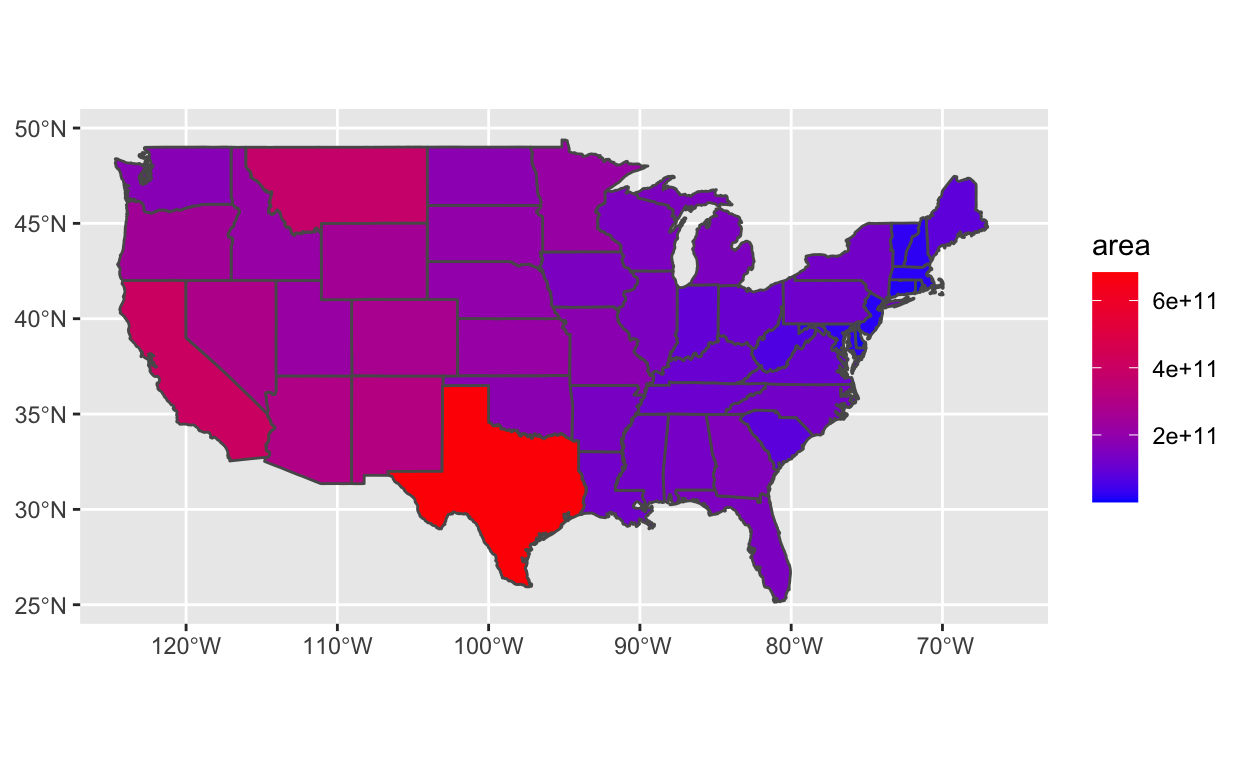
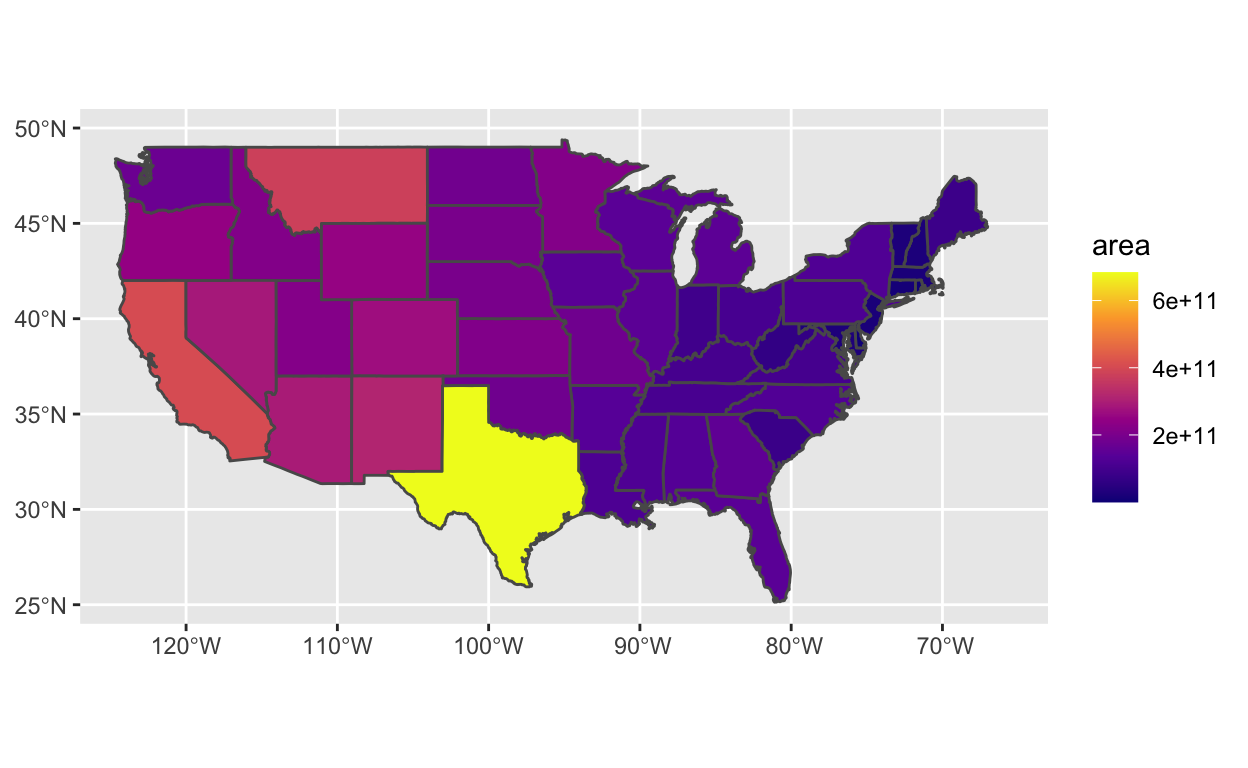
no updates

Changed region(s): [[0.0938, 0.1875, 0.8125, 0.7812], [0.875, 0.3438, 0.9375, 0.6562]]

diff --git a/_site/Assignment3.html b/_site/Assignment3.html
@@ -2592,8 +2592,8 @@ Assignments
 <div class="layout-chunk" data-layout="l-body">
 <div class="sourceCode">
 <pre class="sourceCode r"><code class="sourceCode r"><span class='va'>late_flights_over20</span> <span class='op'>&lt;-</span> <span class='fu'>tbl</span><span class='op'>(</span><span class='va'>con_air</span>, <span class='st'>"flights"</span><span class='op'>)</span> <span class='op'>%&gt;%</span> 
-  <span class='fu'>group_by</span><span class='op'>(</span><span class='va'>origin</span>, <span class='va'>month</span><span class='op'>)</span> <span class='op'>%&gt;%</span> 
   <span class='fu'><a href='https://rdrr.io/r/stats/filter.html'>filter</a></span><span class='op'>(</span><span class='va'>year</span> <span class='op'>==</span> <span class='fl'>2017</span><span class='op'>)</span> <span class='op'>%&gt;%</span>
+  <span class='fu'>group_by</span><span class='op'>(</span><span class='va'>origin</span>, <span class='va'>month</span><span class='op'>)</span> <span class='op'>%&gt;%</span> 
   <span class='fu'>summarize</span><span class='op'>(</span>tot_depart <span class='op'>=</span> <span class='fu'>n</span><span class='op'>(</span><span class='op'>)</span>,
             avg_dist <span class='op'>=</span> <span class='fu'><a href='https://rdrr.io/r/base/mean.html'>mean</a></span><span class='op'>(</span><span class='va'>distance</span><span class='op'>)</span>,
             prop_late_over20 <span class='op'>=</span> <span class='fu'><a href='https://rdrr.io/r/base/mean.html'>mean</a></span><span class='op'>(</span><span class='va'>arr_delay</span> <span class='op'>&gt;</span> <span class='fl'>20</span><span class='op'>)</span><span class='op'>)</span> <span class='op'>%&gt;%</span> 
@@ -2601,26 +2601,25 @@ Assignments
              by <span class='op'>=</span> <span class='fu'><a href='https://rdrr.io/r/base/c.html'>c</a></span><span class='op'>(</span><span class='st'>"origin"</span> <span class='op'>=</span> <span class='st'>"faa"</span><span class='op'>)</span><span class='op'>)</span> <span class='op'>%&gt;%</span> 
   <span class='fu'>select</span><span class='op'>(</span><span class='va'>name</span>, <span class='va'>month</span>, <span class='va'>tot_depart</span>, <span class='va'>avg_dist</span>, <span class='va'>prop_late_over20</span><span class='op'>)</span>
 
-<span class='va'>late_flights_over20</span>
+<span class='va'>late_flights_over20_df</span> <span class='op'>&lt;-</span> <span class='fu'>collect</span><span class='op'>(</span><span class='va'>late_flights_over20</span><span class='op'>)</span>
+<span class='va'>late_flights_over20_df</span>
 </code></pre>
 </div>
-<pre><code># Source:   lazy query [?? x 6]
-# Database: mysql 5.7.31-log
-#   [@mdsr.cdc7tgkkqd0n.us-east-1.rds.amazonaws.com:/airlines]
-# Groups:   origin
+<pre><code># A tibble: 3,466 x 6
+# Groups:   origin [312]
    origin name              month tot_depart avg_dist prop_late_over20
    &lt;chr&gt;  &lt;chr&gt;             &lt;int&gt;      &lt;dbl&gt;    &lt;dbl&gt;            &lt;dbl&gt;
- 1 ABE    Lehigh Valley In…     8        180     562.           0.1   
- 2 ABE    Lehigh Valley In…     9        206     606.           0.0777
- 3 ABE    Lehigh Valley In…    10        253     593.           0.134 
- 4 ABE    Lehigh Valley In…    11        220     585.           0.0909
- 5 ABE    Lehigh Valley In…     1        191     580.           0.147 
- 6 ABE    Lehigh Valley In…    12        168     590.           0.208 
- 7 ABE    Lehigh Valley In…     2        128     601.           0.0703
- 8 ABE    Lehigh Valley In…     3        167     561.           0.162 
- 9 ABE    Lehigh Valley In…     4        139     586.           0.137 
-10 ABE    Lehigh Valley In…     5        160     574.           0.112 
-# … with more rows</code></pre>
+ 1 ABE    Lehigh Valley In…     3        167     561.           0.162 
+ 2 ABE    Lehigh Valley In…     4        139     586.           0.137 
+ 3 ABE    Lehigh Valley In…     5        160     574.           0.112 
+ 4 ABE    Lehigh Valley In…     6        134     572.           0.112 
+ 5 ABE    Lehigh Valley In…     7        192     574.           0.135 
+ 6 ABE    Lehigh Valley In…     8        180     562.           0.1   
+ 7 ABE    Lehigh Valley In…     9        206     606.           0.0777
+ 8 ABE    Lehigh Valley In…    10        253     593.           0.134 
+ 9 ABE    Lehigh Valley In…    11        220     585.           0.0909
+10 ABE    Lehigh Valley In…     1        191     580.           0.147 
+# … with 3,456 more rows</code></pre>
 </div>
 <div class="layout-chunk" data-layout="l-body">
 <div class="sourceCode" id="cb11"><pre class="sourceCode sql"><code class="sourceCode sql"><span id="cb11-1"><a href="#cb11-1"></a><span class="kw">SELECT</span></span>
@@ -2642,18 +2641,18 @@ Assignments
 </ul>
 <div class="layout-chunk" data-layout="l-body">
 <div class="sourceCode">
-<pre class="sourceCode r"><code class="sourceCode r"><span class='va'>late_flights_over20</span> <span class='op'>%&gt;%</span> 
-  <span class='fu'>ggplot</span><span class='op'>(</span><span class='fu'>aes</span><span class='op'>(</span>x <span class='op'>=</span> <span class='fu'><a href='https://rdrr.io/r/base/mean.html'>mean</a></span><span class='op'>(</span><span class='va'>prop_late_over20</span><span class='op'>)</span>,
-             y <span class='op'>=</span> <span class='fu'>fct_reorder</span><span class='op'>(</span><span class='va'>name</span>, <span class='va'>prop_late_over20</span>, <span class='va'>median</span><span class='op'>)</span><span class='op'>)</span><span class='op'>)</span> <span class='op'>+</span>
-  <span class='fu'>geom_col</span><span class='op'>(</span>fill <span class='op'>=</span> <span class='st'>"lightblue"</span><span class='op'>)</span> <span class='op'>+</span>
+<pre class="sourceCode r"><code class="sourceCode r"><span class='va'>late_flights_over20_df</span> <span class='op'>%&gt;%</span> 
+  <span class='fu'>ggplot</span><span class='op'>(</span><span class='fu'>aes</span><span class='op'>(</span>x <span class='op'>=</span> <span class='va'>prop_late_over20</span>,
+             y <span class='op'>=</span> <span class='fu'>fct_reorder</span><span class='op'>(</span><span class='va'>name</span>, <span class='va'>prop_late_over20</span>, <span class='va'>median</span><span class='op'>)</span>, color <span class='op'>=</span> <span class='va'>month</span><span class='op'>)</span><span class='op'>)</span> <span class='op'>+</span>
+  <span class='fu'>geom_col</span><span class='op'>(</span><span class='op'>)</span> <span class='op'>+</span>
+  <span class='fu'>scale_color_fiv</span><span class='op'>(</span><span class='op'>)</span> <span class='op'>+</span>
   <span class='fu'>scale_x_continuous</span><span class='op'>(</span>expand <span class='op'>=</span> <span class='fu'><a href='https://rdrr.io/r/base/c.html'>c</a></span><span class='op'>(</span><span class='fl'>0</span>,<span class='fl'>0</span><span class='op'>)</span>, 
                      labels <span class='op'>=</span> <span class='fu'>scales</span><span class='fu'>::</span><span class='va'><a href='https://scales.r-lib.org/reference/label_percent.html'>percent</a></span><span class='op'>)</span> <span class='op'>+</span>
-  <span class='fu'>labs</span><span class='op'>(</span>x <span class='op'>=</span> <span class='cn'>NA</span>,
-       y <span class='op'>=</span> <span class='cn'>NA</span>,
-       title <span class='op'>=</span> <span class='st'>"Which airlines had the largest % of flights that \nwere more than 20 minutes late from 2010-2017?"</span><span class='op'>)</span>
+  <span class='fu'>labs</span><span class='op'>(</span>x <span class='op'>=</span> <span class='cn'>NULL</span>,
+       y <span class='op'>=</span> <span class='cn'>NULL</span>,
+       title <span class='op'>=</span> <span class='st'>"Which airports had the largest % of flights that \nwere more than 20 minutes late in 2017?"</span><span class='op'>)</span>
 </code></pre>
 </div>
-<p><img src="Assignment3_files/figure-html5/unnamed-chunk-14-1.png" width="624" /></p>
 </div>
 <h2 id="function-friday">Function Friday</h2>
 <h3 id="geom_sf-tasks"><code>geom_sf()</code> Tasks</h3>
@@ -2696,7 +2695,7 @@ Geodetic CRS:  WGS 84
 <div class="sourceCode">
 <pre class="sourceCode r"><code class="sourceCode r"><span class='fu'>ggplot</span><span class='op'>(</span>data <span class='op'>=</span> <span class='va'>states</span><span class='op'>)</span> <span class='op'>+</span>
   <span class='fu'>geom_sf</span><span class='op'>(</span><span class='fu'>aes</span><span class='op'>(</span>fill <span class='op'>=</span> <span class='va'>area</span><span class='op'>)</span><span class='op'>)</span> <span class='op'>+</span>
-  <span class='fu'>scale_fill_gradient</span><span class='op'>(</span>low <span class='op'>=</span> <span class='st'>"blue"</span>, high <span class='op'>=</span> <span class='st'>"red"</span><span class='op'>)</span> <span class='op'>+</span>
+  <span class='fu'>scale_fill_viridis_c</span><span class='op'>(</span>option <span class='op'>=</span> <span class='st'>"C"</span><span class='op'>)</span> <span class='op'>+</span>
   <span class='fu'>coord_sf</span><span class='op'>(</span>xlim <span class='op'>=</span> <span class='fu'><a href='https://rdrr.io/r/base/c.html'>c</a></span><span class='op'>(</span><span class='op'>-</span><span class='fl'>127</span>, <span class='op'>-</span><span class='fl'>63</span><span class='op'>)</span>, 
            ylim <span class='op'>=</span> <span class='fu'><a href='https://rdrr.io/r/base/c.html'>c</a></span><span class='op'>(</span><span class='fl'>24</span>, <span class='fl'>51</span><span class='op'>)</span>, 
            expand <span class='op'>=</span> <span class='cn'>FALSE</span><span class='op'>)</span>
@@ -2709,50 +2708,15 @@ Geodetic CRS:  WGS 84
 </ol>
 <div class="layout-chunk" data-layout="l-body">
 <div class="sourceCode">
-<pre class="sourceCode r"><code class="sourceCode r"><span class='va'>centroids</span> <span class='op'>&lt;-</span> <span class='va'>states</span> <span class='op'>%&gt;%</span> 
-  <span class='fu'>mutate</span><span class='op'>(</span>centroid <span class='op'>=</span> <span class='fu'><a href='https://r-spatial.github.io/sf/reference/geos_unary.html'>st_centroid</a></span><span class='op'>(</span><span class='va'>geom</span><span class='op'>)</span><span class='op'>)</span>
-<span class='va'>centroids</span>
-</code></pre>
-</div>
-<pre><code>Simple feature collection with 49 features and 2 fields
-Active geometry column: geom
-Geometry type: MULTIPOLYGON
-Dimension:     XY
-Bounding box:  xmin: -124.6813 ymin: 25.12993 xmax: -67.00742 ymax: 49.38323
-Geodetic CRS:  WGS 84
-First 10 features:
-                     ID                           geom         area
-1               alabama MULTIPOLYGON (((-87.46201 3... 132961793575
-2               arizona MULTIPOLYGON (((-114.6374 3... 294168620967
-3              arkansas MULTIPOLYGON (((-94.05103 3... 138290036953
-4            california MULTIPOLYGON (((-120.006 42... 405129770136
-5              colorado MULTIPOLYGON (((-102.0552 4... 270611143174
-6           connecticut MULTIPOLYGON (((-73.49902 4...  13077244477
-7              delaware MULTIPOLYGON (((-75.80231 3...   5208287753
-8  district of columbia MULTIPOLYGON (((-77.13731 3...    171310438
-9               florida MULTIPOLYGON (((-85.01548 3... 144849834879
-10              georgia MULTIPOLYGON (((-80.89018 3... 152064974817
-                     centroid
-1  POINT (-86.83042 32.80316)
-2   POINT (-111.6679 34.3006)
-3  POINT (-92.44013 34.90418)
-4  POINT (-119.6015 37.26901)
-5  POINT (-105.5525 38.99797)
-6  POINT (-72.72598 41.62566)
-7  POINT (-75.51492 39.00558)
-8   POINT (-77.0341 38.91079)
-9  POINT (-82.49181 28.65743)
-10 POINT (-83.45853 32.65165)</code></pre>
-</div>
-<div class="layout-chunk" data-layout="l-body">
-<div class="sourceCode">
 <pre class="sourceCode r"><code class="sourceCode r"><span class='fu'>ggplot</span><span class='op'>(</span><span class='op'>)</span> <span class='op'>+</span>
   <span class='fu'>geom_sf</span><span class='op'>(</span>data <span class='op'>=</span> <span class='va'>states</span>, <span class='fu'>aes</span><span class='op'>(</span>fill <span class='op'>=</span> <span class='va'>area</span><span class='op'>)</span><span class='op'>)</span> <span class='op'>+</span>
-  <span class='fu'>scale_fill_gradient</span><span class='op'>(</span>low <span class='op'>=</span> <span class='st'>"blue"</span>, high <span class='op'>=</span> <span class='st'>"red"</span><span class='op'>)</span> <span class='op'>+</span>
+  <span class='fu'>scale_fill_viridis_c</span><span class='op'>(</span>option <span class='op'>=</span> <span class='st'>"C"</span><span class='op'>)</span> <span class='op'>+</span>
   <span class='fu'>coord_sf</span><span class='op'>(</span>xlim <span class='op'>=</span> <span class='fu'><a href='https://rdrr.io/r/base/c.html'>c</a></span><span class='op'>(</span><span class='op'>-</span><span class='fl'>127</span>, <span class='op'>-</span><span class='fl'>63</span><span class='op'>)</span>, 
            ylim <span class='op'>=</span> <span class='fu'><a href='https://rdrr.io/r/base/c.html'>c</a></span><span class='op'>(</span><span class='fl'>24</span>, <span class='fl'>51</span><span class='op'>)</span>, 
            expand <span class='op'>=</span> <span class='cn'>FALSE</span><span class='op'>)</span> <span class='op'>+</span>
-  <span class='fu'>geom_point</span><span class='op'>(</span>data <span class='op'>=</span> <span class='va'>centroids</span>, <span class='fu'>aes</span><span class='op'>(</span>x <span class='op'>=</span> <span class='va'>centroid</span><span class='op'>[</span><span class='fl'>1</span><span class='op'>]</span>, y <span class='op'>=</span> <span class='va'>centroid</span><span class='op'>[</span><span class='fl'>2</span><span class='op'>]</span><span class='op'>)</span><span class='op'>)</span>
+  <span class='fu'>geom_point</span><span class='op'>(</span>data <span class='op'>=</span> <span class='va'>states</span> <span class='op'>%&gt;%</span> <span class='fu'>mutate</span><span class='op'>(</span>centroid <span class='op'>=</span> <span class='fu'><a href='https://r-spatial.github.io/sf/reference/geos_unary.html'>st_centroid</a></span><span class='op'>(</span><span class='va'>geom</span><span class='op'>)</span><span class='op'>)</span>, 
+             <span class='fu'>aes</span><span class='op'>(</span>x <span class='op'>=</span> <span class='va'>centroid</span><span class='op'>[</span><span class='fl'>1</span><span class='op'>]</span>, y <span class='op'>=</span> <span class='va'>centroid</span><span class='op'>[</span><span class='fl'>2</span><span class='op'>]</span>, 
+                 fill <span class='op'>=</span> <span class='st'>"white"</span>, color <span class='op'>=</span> <span class='st'>"black"</span><span class='op'>)</span><span class='op'>)</span>
 </code></pre>
 </div>
 </div>
@@ -2764,11 +2728,12 @@ First 10 features:
 <pre class="sourceCode r"><code class="sourceCode r"><span class='fu'>ggplot</span><span class='op'>(</span><span class='op'>)</span> <span class='op'>+</span>
   <span class='fu'>geom_sf</span><span class='op'>(</span>data <span class='op'>=</span> <span class='va'>counties</span>, fill <span class='op'>=</span> <span class='cn'>NA</span>, color <span class='op'>=</span> <span class='st'>"black"</span><span class='op'>)</span> <span class='op'>+</span>
   <span class='fu'>geom_sf</span><span class='op'>(</span>data <span class='op'>=</span> <span class='va'>states</span>, <span class='fu'>aes</span><span class='op'>(</span>fill <span class='op'>=</span> <span class='va'>area</span><span class='op'>)</span><span class='op'>)</span> <span class='op'>+</span>
-  <span class='fu'>scale_fill_gradient</span><span class='op'>(</span>low <span class='op'>=</span> <span class='st'>"blue"</span>, high <span class='op'>=</span> <span class='st'>"red"</span><span class='op'>)</span> <span class='op'>+</span>
+  <span class='fu'>scale_fill_viridis_c</span><span class='op'>(</span>option <span class='op'>=</span> <span class='st'>"C"</span><span class='op'>)</span> <span class='op'>+</span>
   <span class='fu'>coord_sf</span><span class='op'>(</span>xlim <span class='op'>=</span> <span class='fu'><a href='https://rdrr.io/r/base/c.html'>c</a></span><span class='op'>(</span><span class='op'>-</span><span class='fl'>127</span>, <span class='op'>-</span><span class='fl'>63</span><span class='op'>)</span>, 
            ylim <span class='op'>=</span> <span class='fu'><a href='https://rdrr.io/r/base/c.html'>c</a></span><span class='op'>(</span><span class='fl'>24</span>, <span class='fl'>51</span><span class='op'>)</span>, 
            expand <span class='op'>=</span> <span class='cn'>FALSE</span><span class='op'>)</span> <span class='co'>#+</span>
-  <span class='co'>#geom_point(data = centroids, aes(x = centroid[1], y = centroid[2]))</span>
+  <span class='co'>#geom_point(data = centroids, aes(x = centroid[1], y = centroid[2], </span>
+  <span class='co'>#                                 fill = "white", color = "black"))</span>
 </code></pre>
 </div>
 </div>
@@ -2784,11 +2749,12 @@ First 10 features:
   <span class='fu'>coord_sf</span><span class='op'>(</span>xlim <span class='op'>=</span> <span class='fu'><a href='https://rdrr.io/r/base/c.html'>c</a></span><span class='op'>(</span><span class='op'>-</span><span class='fl'>127</span>, <span class='op'>-</span><span class='fl'>63</span><span class='op'>)</span>, 
            ylim <span class='op'>=</span> <span class='fu'><a href='https://rdrr.io/r/base/c.html'>c</a></span><span class='op'>(</span><span class='fl'>24</span>, <span class='fl'>51</span><span class='op'>)</span>, 
            expand <span class='op'>=</span> <span class='cn'>FALSE</span><span class='op'>)</span> <span class='co'>#+</span>
-  <span class='co'>#geom_point(data = centroids, aes(x = centroid[1], y = centroid[2]))</span>
+  <span class='co'>#geom_point(data = centroids, aes(x = centroid[1], y = centroid[2], </span>
+  <span class='co'>#                                 fill = "white", color = "black"))</span>
 </code></pre>
 </div>
 </div>
-<div class="sourceCode" id="cb14"><pre class="sourceCode r distill-force-highlighting-css"><code class="sourceCode r"></code></pre></div>
+<div class="sourceCode" id="cb13"><pre class="sourceCode r distill-force-highlighting-css"><code class="sourceCode r"></code></pre></div>
 <!--radix_placeholder_article_footer-->
 <!--/radix_placeholder_article_footer-->
 </div>
